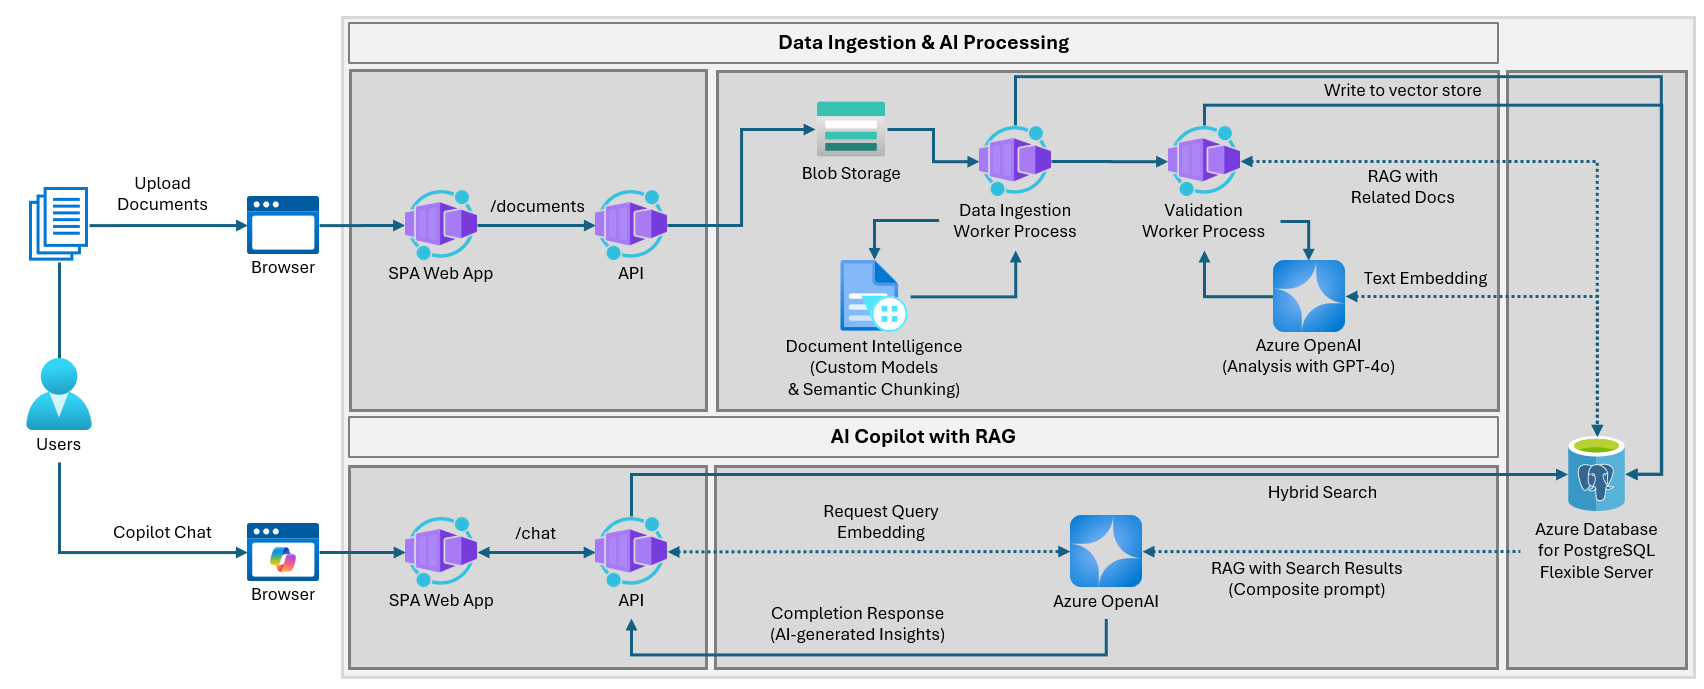
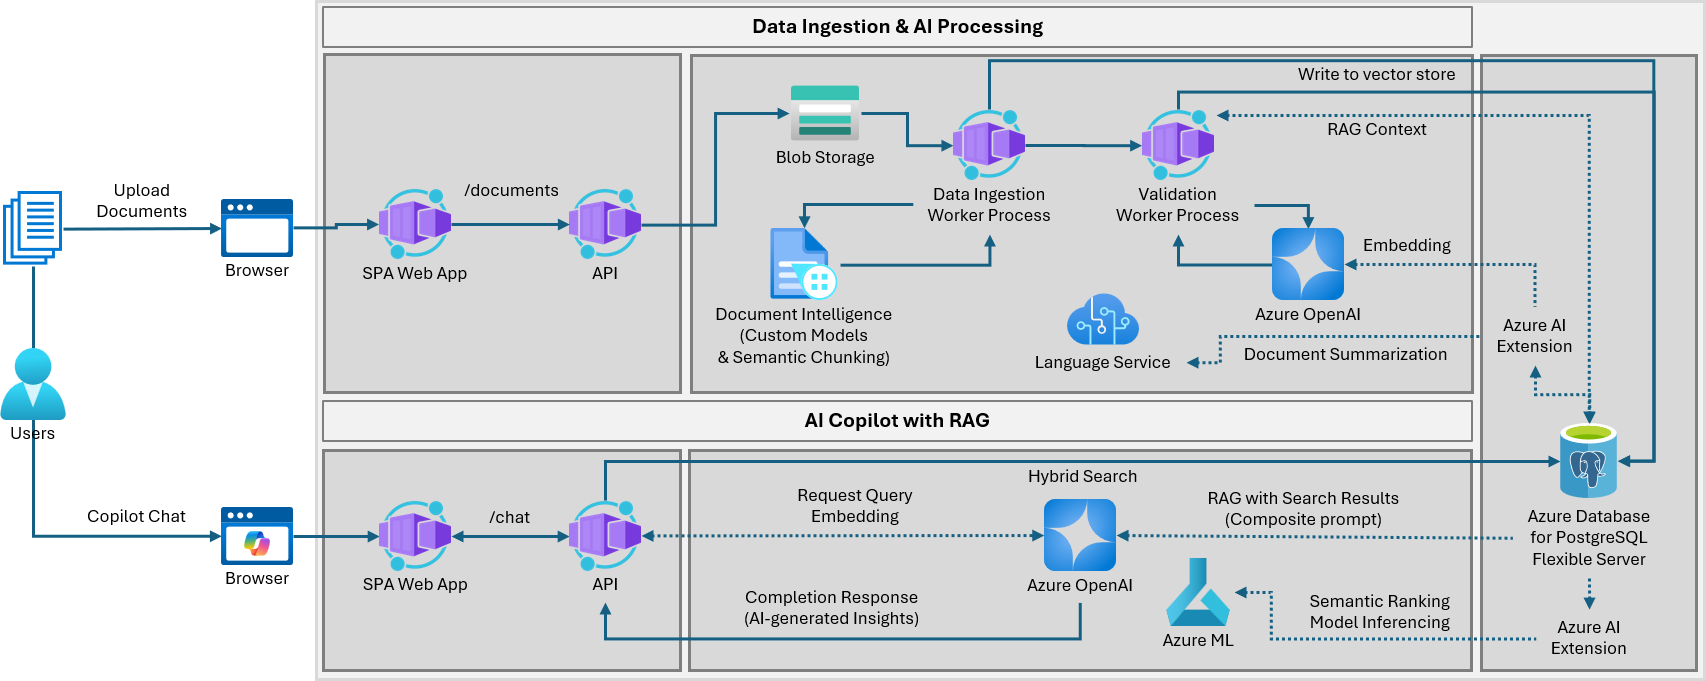
Updating intro docs

Changed region(s): [[0.0, 0.0, 1.0, 1.0], [0.0, 0.4934, 0.0622, 0.6476]]

diff --git a/docs/workshop/docs/01-Introduction/02-App-Architecture.md b/docs/workshop/docs/01-Introduction/02-App-Architecture.md
@@ -1,164 +1,85 @@
-# 2. AI-enabled App Architecture
+# 1.2 Application Architecture
 
-The objective of this solution is to accelerate the integration of AI capabilities into applications.
+The _Woodgrove Bank Contract Management_ application automates extracting, validating, and storing data from invoices and SOWs to minimize manual effort and boost operational efficiency while allowing internal application users to gain actionable insights from the data. By focusing on this streamlined flow, the solution effectively automates tedious tasks, reduces errors, and provides valuable insights to internal users, enhancing overall operational efficiency and decision-making.
 
-The extraction, validation, and storage of invoices and SOWs to minimize manual effort and boost operational efficiency. This solution architecture facilitates seamless integration across multiple Azure services, ensuring scalability, security, and optimized costs, while accurately aligning invoices with milestone-based deliverables and other contractual obligations.
+Throughout this solution accelerator, you will enhance the application with AI capabilities. The application consists of a REACT single page application (SPA) providing the UX (user experience), a backend API written in Python using FastAPI, and various Azure services. The solution implements the following high-level architecture:
 
-By integrating AI capabilities into existing solutions, leveraging advanced AI validation, Document Intelligence, and a copilot enhanced by RAG...
+![High-level architecture diagram for the solution](../img/solution-architecture-diagram.png)
 
-Such an application can be integrated with existing financial and accounting systems to streamline the entire process. By leveraging AI and machine learning, it can continuously learn and improve its accuracy in detecting discrepancies and anomalies.
+!!! tip "Decoupled application architecture"
 
-
+    Separating app functionality into a dedicated UI and backend API offers several benefits. Firstly, it enhances modularity and maintainability, allowing you to update the UI or backend independently without disrupting the other. REACT and Node.js provide an intuitive and interactive user interface that simplifies user interactions, while the Python API leveraging FastAPI ensures high-performance, asynchronous request handling and data processing. This separation also promotes scalability, as different components can be deployed across multiple servers, optimizing resource usage. Additionally, it enables better security practices, as the backend API can handle sensitive data and authentication separately, reducing the risk of exposing vulnerabilities in the UI layer. This approach leads to a more robust, efficient, and user-friendly application.
 
 ---
 
-_Click each tab below to learn more about how this pattern works in the context of the Woodgrove Bank application!_
+## Application Data Flow
 
-TODO: Rework the below to cover the starter application, which does not contain any AI functionality.
+_Click each tab below to learn more about how the movement of data in the context of the Woodgrove Bank Contract Management application!_
 
-Click on each tab to understand the starter application archtiecture components and processing workflow.
+=== "Data Ingestion & AI Processing"
 
-=== "1. Architecture Components"
+    !!! info "How The Automated Data Ingestion and AI Validation Process Works"
 
-    The architecture has these core components:
-    
-    - _UI_ → the **user interface** for interacting with the system
-      - TODO: Add details about REACT and structure of SPA web app used for the frontend UI
-    - _API_ → a Python API for integrating backend services
-      - TODO: Add details about FastAPI, Python, and the structures of the backend API
-    - _Azure Database for PostgreSQL_ → the project **database** (vendors, invoices, statements of work (SOWs))
-    - _Azure Container Apps_ → the **app hosting** service (API endpoint)
-    - _Azure Managed Identity_ → for **keyless authentication** (trustworthy AI)
+        Internal users and external vendors can introduce new documents, SOWs, and invoices into the system via an intuitive browser-based user interface. This action kicks off automated processes to extract and validate the data within those documents. Extracted data and validation results are returned to the users in the UI, allowing them to review and make updates as necessary.
 
-=== "2. Processing Services"
+    ![Data Ingestion & Validation data flow diagram](../img/validation-data-flow-diagram.png)
 
-    The Architecture "processes" incoming user requests received on the hosted API endpoint by taking the following steps:
+    1. SOWs, invoices, and related documents are ingested via the Woodgrove Bank Contract Management Portal, a REACT Single Page Application (SPA) accessed through a web browser. Internal users and external vendors can submit documents via the portal.
 
-    1. **Data Ingestion**: SOWs, invoices and other related documents are ingested via a REACT single-page application (SPA). Internal users and external vendors can submit documents by uploading them through the web app, which then uploads them to Azure Blob Storage.
+    2. The SPA web app sends uploaded documents directly with the backend API's `/documents` endpoint.
 
-    2. **Workflow Trigger Mechanism**: Upon receipt of new documents, an Event Grid trigger activates Python-based background worker processes:
+    3. The API, hosted as an [Azure Container App](https://learn.microsoft.com/azure/container-apps/overview) (ACA), saves the uploaded documents into a container in Azure Blob storage.
 
-        a. **Data Extraction and Processing**: Azure's OCR (Optical Character Recognition) technology digitizes content from uploaded documents, such as SOWs and invoices.
-    
-        b. **Document Intelligence (Custom Model)**: A custom AI model within Azure's Document Intelligence service is tailored to extract specific data fields, like payment milestones, dates, amounts, and vendor details. This model is trained to recognize the structure of financial documents, improving data extraction accuracy.
+       1. Storing the original documents in blob storage allows raw data to be persisted.
 
-        c. **Confidence Scoring and Validation**: Each document is assigned a confidence score based on whether the documents contain the correct sections and fields.
+       2. Should processing errors be detected or system requirements change, documents can be easily reprocessed.
 
-        d. **Validation Using Azure OpenAI**: Azure OpenAI language models, such as GPT-4o, are used to review all document data, employing natural language understanding to validate and cross-check information, ensuring high data integrity. The language model is used to cross-reference data between invoices and SOWs, evaluating payment milestone completion and billing, and preventing issues like payment delays. It also validates that appropriate compliance language exists in contracts and SOWs, helping to avoid compliance violations.
+    4. When new documents are added into blob storage, an Event Grid trigger is fired, starting the Data Ingestion Worker Process.
 
-    3. **Secure Storage and Database Management**: Validated data is chunked, vectorized using an Azure OpenAI embedding model, and stored in an encrypted Azure Database for PostgreSQL flexible server database, which uses vector embeddings for advanced search and retrieval. This supports efficient handling of structured and semi-structured data, facilitating downstream analytics. Azure Database for PostgreSQL flexible server supports JSON-based semi-structured data and vector embedding storage, enabling AI-enhanced queries. Embeddings can be generated directly from database queries using the Azure AI extension for PostgreSQL.
+       1. The data ingestion worker process handles data extraction and processing by sending uploaded documents to the Azure AI Document Intelligence service.
 
-    4. **Document enrichment**: The Azure AI extension for PostreSQL also enables data to be enhanced using Azure AI Services directly from the database. This capability provides rich AI functionality, such as text translation and entity and keyword extraction.
+       2. Custom AI models within the Document Intelligence service are tailored to extract specific data fields, such as payment milestones, due dates, billable amounts, and vendor details. These models are trained to recognize the structure of financial documents, improving data extraction accuracy.
 
-    5. **Copilot chat**: An Azure OpenAI + LangChain copilot enables project managers and leadership to quickly get metrics, trends and processing timelines for contracts, SOWs, invoices, and vendors using a user friendly chat interface. Function calling via LangChain tools enables the copilot to implement a RAG (retrieval-augmented generation) pattern over data in the PostgreSQL database, using vector search to efficiently retrieve relevant documents and data.
+       3. Document Intelligence's Semantic Chunking capability recognizes document structures, capturing headings and chunking the content body based on semantic coherence, such as paragraphs and sentences. This ensures that the chunks are of higher quality for use in RAG pattern queries.
 
+    5. The extracted document data is securely stored in Azure Database for PostgreSQL flexible server.
 
+    6. As part of the database insert statement, the GenAI capabilities of the `azure_ai` extension are used to:
 
+       1. Generate and save vector embeddings of document text using Azure OpenAI.
 
+       2. Create abstractive summaries of SOWs using the Azure AI Language service.
 
-The high-level solution architecture is represented by the following diagrams:
-
-=== "Data ingestion and validation"
-
-    The attached image is a detailed flowchart illustrating the architecture of a data ingestion and AI processing system integrated with an AI copilot using Retrieval-Augmented Generation (RAG). The system is divided into two main sections: "Data Ingestion & AI Processing" and "AI Copilot with RAG." The flowchart shows how users interact with the system, how data is processed, and how AI-generated insights are delivered back to the users.
-    
-    ![](./../img/data-ingestion-validation-architecture-diagram.png)
-
-=== "Copilot with RAG"
-
-    The second part of the application is an AI copilot, which allows users to ask questions and gain actionable insights over the data in the PostgreSQL database by leveraging a RAG architecture pattern. When users submit  questions through the Copilot's chat interface, the query is processed by the SPA Web App and sent to the API. The API then communicates with Azure OpenAI to generate a prompt embedding, which is used to perform a vector search in the Azure Database for PostgreSQL Flexible Server. The search results are retrieved and used to generate a completion response containing AI-generated insights. This response is sent back to the API and displayed to the user, providing them with relevant and actionable information based on the data stored in the Postgres database. This process enables users to efficiently query and analyze large datasets, making it easier to derive meaningful insights and make informed decisions.
-    
-    ![](./../img/copilot-architecture-diagram.png)
-    
-    The attached image is a flowchart illustrating the architecture of an AI Copilot with Retrieval-Augmented Generation (RAG). The flowchart shows how users interact with the system through a browser-based Copilot Chat interface. The users' queries are sent to a Single Page Application (SPA) Web App, which communicates with an API. The API interacts with Azure OpenAI to generate prompt embeddings and perform vector searches. The vector search results are retrieved from an Azure Database for PostgreSQL Flexible Server (Vector Store). The completion response, which contains AI-generated insights, is then sent back to the API and displayed to the users through the SPA Web App. The system also includes components like Key Vault and Azure App Configuration for secure and efficient management of application settings and secrets.
-
-    ## The RAG Pattern
-    
-    The workshop teaches you to **build, evaluate, and deploy a retail copilot** code-first on Azure AI - using the _Retrieval Augmented Generation_ (RAG) design pattern to make sure that our copilot responses are grounded in the (private) data maintained by the enterprise, for this application.
-    
-    ![RAG](./../img/rag-design-pattern.png)
-    
-    Let's learn how this design pattern works in the context of our Contoso Chat application. Click on the tabs in order, to understand the sequence of events shown in the figure above.
-    
-    ---
-    
-    === "1. Get Query"
-    
-        !!! info "The user query arrives at our copilot implementation via the endpoint (API)"
-    
-        Our deployed Contoso Chat application is exposed as a hosted API endpoint using Azure Container Apps. The inoming "user query" has 3 components: the user _question_ (text input), the user's _customer ID_ (text input), and an optional _chat history_ (object array).
-    
-        The API server extracts these parameters from the incoming request, and invokes the Contoso Chat application - starting the workflow reflecting this RAG design pattern.
-    
-    === "2. Vectorize Query"
-    
-        !!! info "The copilot sends the text query to a **retrieval** service after first vectorizing it."
-    
-        The Contoso Chat application converts the text question into a vectorized query using a Large Language "Embedding" Model (e.g., Azure Open AI `text-embedding-ada-002`). This is then sent to the information retrieval service (e.g., Azure AI Search) in the next step.
-    
-    === "3. **Retrieve** Matches"
-    
-        !!! info "The retrieval service uses vectorized query to return matching results by similarity"
-    
-        The information retrieval service maintains a search index for relevant information (here, for our product catalog). In this step, we use the vectorized query from the previous step to find and return _matching product results_ based on vector similarity. The information retrieval service can also use features like _semantic ranking_ to order the returned results.
-    
-    === "4. **Augment** Query"
-    
-        !!! info "The copilot augments user prompt with retrieved knowledge in request to model"
-    
-        The Contoso Chat application combines the user's original _question_ with returned "documents" from the information retrieval service, to create an enhanced _model prompt_. This is made easier using prompt template technologies (e.g., Prompty) with placeholders - for chat history, retrieved documents, and customer profile information - that are filled in at this step.
+    7. Document data is sent through an AI-driven data validation process that uses Azure OpenAI to analyze the incoming data, ensuring it conforms to expected standards and is accurate based on related data already in the system.
         
-    
-    === "5. **Generate** Response"
-    
-        !!! info "The chat model uses prompt to generate a grounded response to user question."
-    
-        This enhanced prompt is now sent to the Large Language "chat" model (e.g., Azure OpenAI `gpt-35-turbo` or `gpt-4o`) which sees the enhanced prompt (retrieved documents, customer profile data, chat history) as _grounding_ context for generating the final response, improving the quality (e.g., relevance, groundedness) of results returned from Contoso Chat.
+        1. Azure OpenAI's GPT-4o language model reviews all document data, employing natural language understanding to validate and cross-check information and ensure high data integrity.
+        
+        2. The RAG pattern allows the language model to cross-reference data between invoices and SOWs, evaluating payment milestone completion and billing and preventing issues like payment delays. It also validates that appropriate document sections and required compliance language exist in contracts and SOWs, helping to avoid incomplete contracts and compliance violations.
 
-## GraphRAG
+    8. The data validation results are securely stored in Azure Database for PostgreSQL alongside the analyzed data.
 
-TODO: Write up a short bit about GraphRAG
+=== "AI Copilot with RAG"
 
+    !!! info "How The Custom Copilot Experience Works"
 
+        Internal users interact with data through an intelligent copilot that employs the Retrieval Augmented Generation (RAG) pattern. This copilot allows users to ask questions about contract data, offering valuable insights into vendor contract fulfillment and invoicing accuracy.
 
-TODO: Include details about SEMANTIC RANKER MODEL () and include in the text above
-    - Update data and flow diagrams to talk about semantic ranker for custom model inference.
-    - Blog post to use are reference: <https://techcommunity.microsoft.com/blog/adforpostgresql/introducing-the-semantic-ranking-solution-for-azure-database-for-postgresql/4298781>
-    - Model to use: <https://huggingface.co/BAAI/bge-reranker-v2-m3>
+    ![Copilot data flow diagram](../img/copilot-data-flow-diagram.png)
 
-Click on each tab to understand the archtiecture components and processing workflow.
+    1. Users interact with the _Woodgrove Bank Contract Management Copilot_ through a browser interface to pose queries or seek information.
 
----
+    2. The REACT SPA sends these chat messages to the `/chat` API endpoint hosted in ACA.
 
-=== "1. Architecture Components"
+    3. The request query is embedded using the `text-embedding-3-large` model in Azure OpenAI.
 
-    The architecture has these core components:
-    
-    - _UI_ → the **user interface** for interacting with the system
-    - _API_ → a Python API for integrating backend services
-    - _Azure Database for PostgreSQL_ → the project **database** (vendors, invoices, statements of work (SOWs))
-    - _Azure OpenAI_ → the **model deployments** (embedding, chat, eval)
-    - _Azure Container Apps_ → the **app hosting** service (API endpoint)
-    - _Azure Managed Identity_ → for **keyless authentication** (trustworthy AI)
+    4. A **hybrid search** is performed on the Azure Database for PostgreSQL flexible server, where the system searches for relevant data.
 
-=== "2. Processing Services"
+       1. Hybrid search combines full-text search with vector-based search to provide more accurate and relevant results. It allows you to perform searches using both traditional keyword matching and semantic similarity, leveraging embeddings to understand the context and meaning behind the text.
 
-    The Architecture "processes" incoming user requests received on the hosted API endpoint by taking the following steps:
+       2. By integrating these two methods, hybrid search enhances the precision and comprehensiveness of search results, making it ideal for applications like semantic search, recommendation systems, and content discovery.
 
-    1. **Data Ingestion**: SOWs, invoices and other related documents are ingested via a custom REACT web application. Internal users and external vendors can submit documents by uploading them through the web app, which then uploads them to Azure Blob Storage.
+    5. (Optional) Semantic Ranking via custom model inference from the `azure_ai` extension ranks search result relevance and is returned into the RAG context as part of the composite prompt.
 
-    2. **Workflow Trigger Mechanism**: Upon receipt of new documents, an event trigger activates Python-based background worker processes:
+    6. Azure OpenAI uses the composite prompt to augment the data over which it formulates a response.
 
-        a. **Data Extraction and Processing**: Azure's OCR (Optical Character Recognition) technology digitizes content from uploaded documents, such as SOWs and invoices.
-    
-        b. **Document Intelligence (Custom Model)**: A custom AI model within Azure's Document Intelligence service is tailored to extract specific data fields, like payment milestones, dates, amounts, and vendor details. This model is trained to recognize the structure of financial documents, improving data extraction accuracy.
-
-        c. **Confidence Scoring and Validation**: Each document is assigned a confidence score based on whether the documents contain the correct sections and fields.
-
-        d. **Validation Using Azure OpenAI**: Azure OpenAI language models, such as GPT-4o, are used to review all document data, employing natural language understanding to validate and cross-check information, ensuring high data integrity. The language model is used to cross-reference data between invoices and SOWs, evaluating payment milestone completion and billing, and preventing issues like payment delays. It also validates that appropriate compliance language exists in contracts and SOWs, helping to avoid compliance violations.
-
-    3. **Secure Storage and Database Management**: Validated data is chunked, vectorized using an Azure OpenAI embedding model, and stored in an encrypted Azure Database for PostgreSQL flexible server database, which uses vector embeddings for advanced search and retrieval. This supports efficient handling of structured and semi-structured data, facilitating downstream analytics. Azure Database for PostgreSQL flexible server supports JSON-based semi-structured data and vector embedding storage, enabling AI-enhanced queries. Embeddings can be generated directly from database queries using the Azure AI extension for PostgreSQL.
-
-    4. **Document enrichment**: The Azure AI extension for PostreSQL also enables data to be enhanced using Azure AI Services directly from the database. This capability provides rich AI functionality, such as text translation and entity and keyword extraction.
-
-    5. **Copilot chat**: An Azure OpenAI + LangChain copilot enables project managers and leadership to quickly get metrics, trends and processing timelines for contracts, SOWs, invoices, and vendors using a user friendly chat interface. Function calling via LangChain tools enables the copilot to implement a RAG (retrieval-augmented generation) pattern over data in the PostgreSQL database, using vector search to efficiently retrieve relevant documents and data.
+    7. The AI-generated completion response is sent back to the user through the browser interface, providing them with actionable insights based on the data stored in the system. The efficient flow of information ensures users can quickly and accurately obtain the information they need.

diff --git a/docs/workshop/docs/01-Introduction/01-App-Scenario.md b/docs/workshop/docs/01-Introduction/01-App-Scenario.md
@@ -8,13 +8,11 @@ The accelerator is designed to demonstrate how an existing financial services ap
 
 ## Getting Started with the Woodgrove Bank Application
 
-You have been provided with code and deployment scripts for the _Woodgrove Bank_ web application. This application comprises an enterprise user portal integrated with a custom backend API. You will enhance this starter application by integrating Azure AI services throughout this accelerator. Key steps include:
+You have been provided starter code and deployment scripts for the _Woodgrove Bank_ web application. This application comprises an enterprise user portal integrated with a custom backend API. You will enhance this application by integrating Azure AI services throughout this accelerator. Key steps include:
 
 1. **Integrating Generative AI (GenAI) Capabilities into Azure Database for PostgreSQL**: Use the Azure AI `azure_ai` and pgvector (`vector`) extensions to extend your PostgreSQL database with advanced GenAI and vector search capabilities.
 2. **Automating Data Validation with AI:** Enhance the data ingestion process with automated, AI-driven validation using Azure Document Intelligence and Azure AI services.
 3. **Building a Copilot:** Create an intelligent assistant using Azure OpenAI and Azure Database for PostgreSQL - Flexible Server, incorporating the Retrieval Augmented Generation (RAG) design pattern to ensure its responses are based on the private data maintained by the enterprise.
-4. **Updating the Backend API:** Modify the backend API to provide the necessary endpoints for interacting with Azure services (Azure OpenAI and Azure Database for PostgreSQL).
-5. **Enhancing the Frontend UI:** Improve the frontend user interface to facilitate interaction with the copilot.
-6. **Adding GraphRAG functionality**: Install the Apache AGE (`age`) extension to allow your PostgreSQL database to be used as a graph database, providing a comprehensive solution for analyzing interconnected data.
+4. **Adding GraphRAG functionality**: Install the Apache AGE (`age`) extension to allow your PostgreSQL database to be used as a graph database, providing a comprehensive solution for analyzing interconnected data.
 
 This solution accelerator aims to teach you how to integrate AI capabilities into an existing application by leveraging Microsoft Azure's AI services to automate and streamline the validation of contract-related documents in the financial services industry. This integration results in faster, more accurate, and cost-effective processes. Additionally, the copilot will provide intelligent assistance, enabling users to gain actionable insights from data stored in the Azure Database for PostgreSQL, enhancing their overall experience.

diff --git a/docs/workshop/docs/01-Introduction/index.md b/docs/workshop/docs/01-Introduction/index.md
@@ -12,9 +12,9 @@ The goal of the solution accelerator is to teach you to how to **add rich AI cap
 
 By the end of the workshop, you will learn to:
 
-- Use Azure AI Services to automate data ingestion and validation tasks to streamline workflows.
+- Use Azure AI Services to automate data validation tasks during ingestion to streamline workflows.
 - Integrate Generative AI capabilities into your Azure Database for PostgreSQL-based applications using the [Azure AI extension](https://learn.microsoft.com/azure/postgresql/flexible-server/how-to-integrate-azure-ai).
-- Use the [Retrieval Augmented Generation (RAG) pattern](https://learn.microsoft.com/azure/ai-studio/concepts/retrieval-augmented-generation) <br/> (to ground responses in your own data).
+- Use the [Retrieval Augmented Generation (RAG) pattern](https://learn.microsoft.com/azure/ai-studio/concepts/retrieval-augmented-generation) in a copilot <br/> (to ground responses in your own data).
 - Use [Azure Container Apps](https://aka.ms/azcontainerapps) for deployment <br/> (to get a hosted API endpoint for real-world use).
 - Use [Azure Developer CLI](https://aka.ms/azd) with AI Application Templates <br/> (to provision & deploy apps consistently across teams)
 
